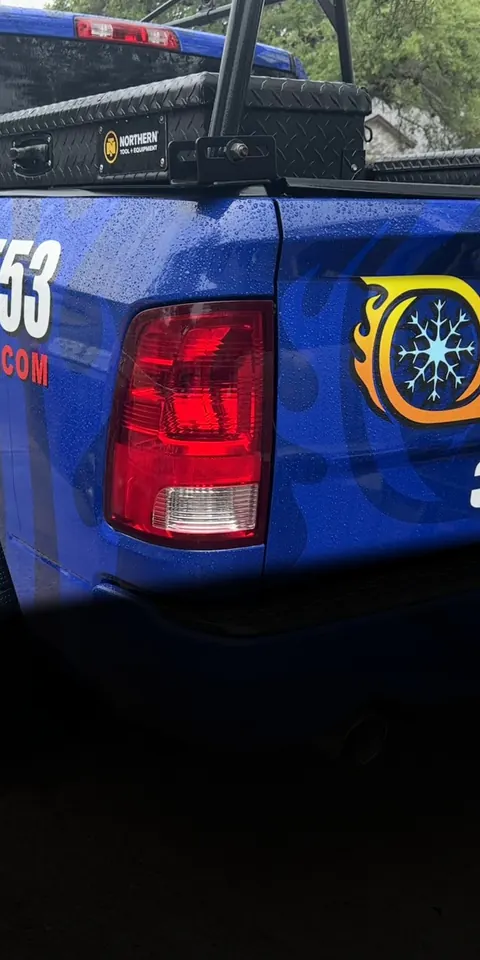
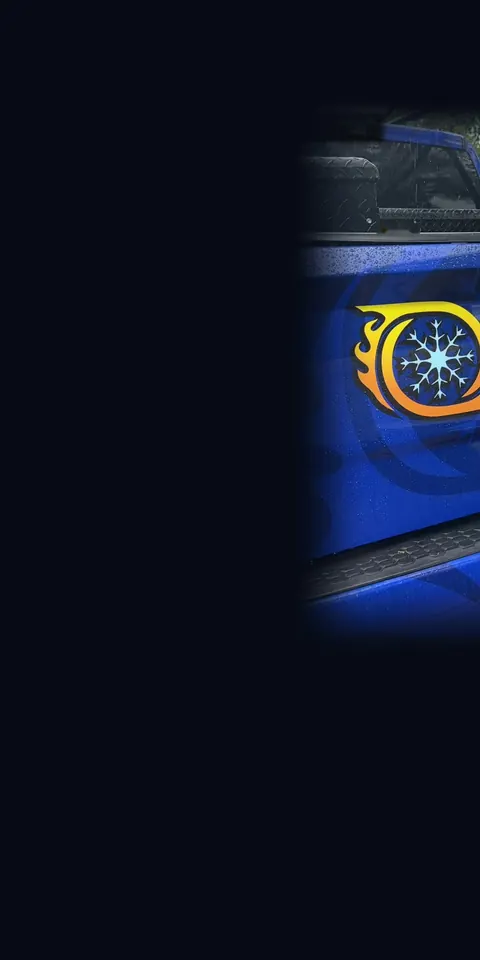
Preview update

diff --git a/index.html b/index.html
@@ -42,7 +42,7 @@
   <div class="cta-row"><a class="btn btn-fire" href="tel:+13616089553"><svg viewBox="0 0 24 24" fill="none" stroke="currentColor" stroke-width="2" stroke-linecap="round" stroke-linejoin="round" aria-hidden="true"><path d="M13.832 16.568a1 1 0 0 0 1.213-.303l.355-.465A2 2 0 0 1 17 15h3a2 2 0 0 1 2 2v3a2 2 0 0 1-2 2A18 18 0 0 1 2 4a2 2 0 0 1 2-2h3a2 2 0 0 1 2 2v3a2 2 0 0 1-.8 1.6l-.468.351a1 1 0 0 0-.292 1.233 14 14 0 0 0 6.392 6.384"/></svg>Call <span class="nw">361-608-9553</span></a><a class="btn btn-ice" href="/ridgewood-preview/book/"><svg viewBox="0 0 24 24" fill="none" stroke="currentColor" stroke-width="2" stroke-linecap="round" stroke-linejoin="round" aria-hidden="true"><path d="M8 2v4"/><path d="M16 2v4"/><rect width="18" height="18" x="3" y="4" rx="2"/><path d="M3 10h18"/><path d="m9 16 2 2 4-4"/></svg>Book online</a></div>
 </div></div>
 <main id="main">
-<section class="hero"><div class="hero-bg"><picture><source media="(max-width:760px)" srcset="/ridgewood-preview/assets/img/hero-emblem-m-480.webp 480w, /ridgewood-preview/assets/img/hero-emblem-m-720.webp 720w" sizes="100vw"><img src="/ridgewood-preview/assets/img/hero-800.webp" srcset="/ridgewood-preview/assets/img/hero-480.webp 480w, /ridgewood-preview/assets/img/hero-800.webp 800w, /ridgewood-preview/assets/img/hero-1200.webp 1200w, /ridgewood-preview/assets/img/hero-1600.webp 1600w, /ridgewood-preview/assets/img/hero-2400.webp 2400w" sizes="100vw" alt="Ridgewood Air Conditioning &amp; Heating service truck in its new wrap" width="4032" height="2011" fetchpriority="high"></picture></div><div class="wrap"><div class="hero-inner">
+<section class="hero"><div class="hero-bg"><picture><source media="(max-width:760px)" srcset="/ridgewood-preview/assets/img/hero-emblem-m-480.webp 480w, /ridgewood-preview/assets/img/hero-emblem-m-800.webp 800w, /ridgewood-preview/assets/img/hero-emblem-m-1200.webp 1200w" sizes="100vw"><img src="/ridgewood-preview/assets/img/hero-800.webp" srcset="/ridgewood-preview/assets/img/hero-480.webp 480w, /ridgewood-preview/assets/img/hero-800.webp 800w, /ridgewood-preview/assets/img/hero-1200.webp 1200w, /ridgewood-preview/assets/img/hero-1600.webp 1600w, /ridgewood-preview/assets/img/hero-2400.webp 2400w" sizes="100vw" alt="Ridgewood Air Conditioning &amp; Heating service truck in its new wrap" width="4032" height="2011" fetchpriority="high"></picture></div><div class="wrap"><div class="hero-inner">
   <span class="eyebrow">Coastal Bend HVAC</span>
   <h1>Keep your cool, <span class="grad">Coastal&nbsp;Bend.</span></h1>
   <p class="hero-sub">AC repair, system replacements and maintenance for homes and light commercial, from Ingleside to&nbsp;Port&nbsp;Aransas.</p>
